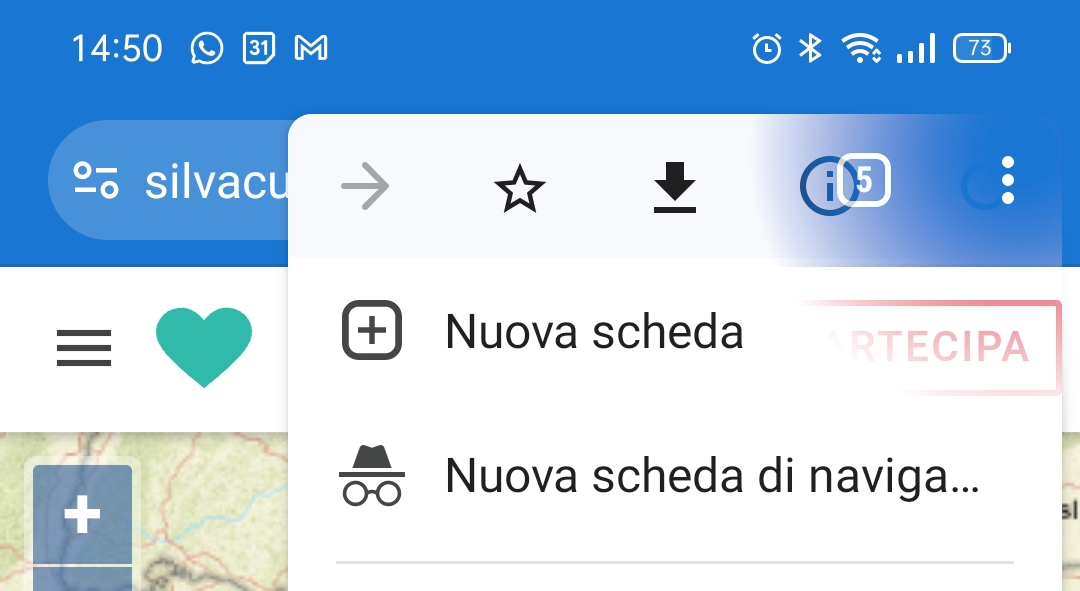
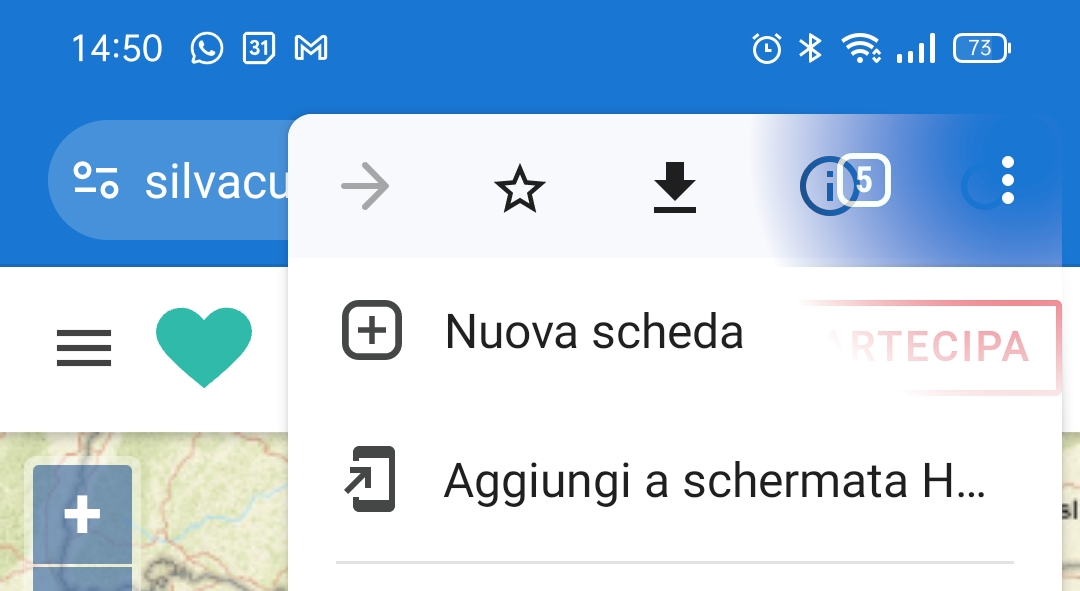
fix: updated install android guide

Changed region(s): [[0.3056, 0.731, 0.9167, 0.8832]]

diff --git a/src/app/pages/guide/guide.page.html b/src/app/pages/guide/guide.page.html
@@ -34,9 +34,9 @@
           </ion-card-header>
         
           <ion-card-content>
-            <h3>Apri il menu del browser Chrome</h3>
+            <h3>Apri il menu e seleziona Aggiungi a schermata Home</h3>
             <img src="./../../../assets/pwa/pwa_install_android_1.png"/>
-            <h3>Seleziona Installa App</h3>
+            <h3>Seleziona Installa</h3>
             <img src="./../../../assets/pwa/pwa_install_android_2.png"/>
             
           </ion-card-content>
